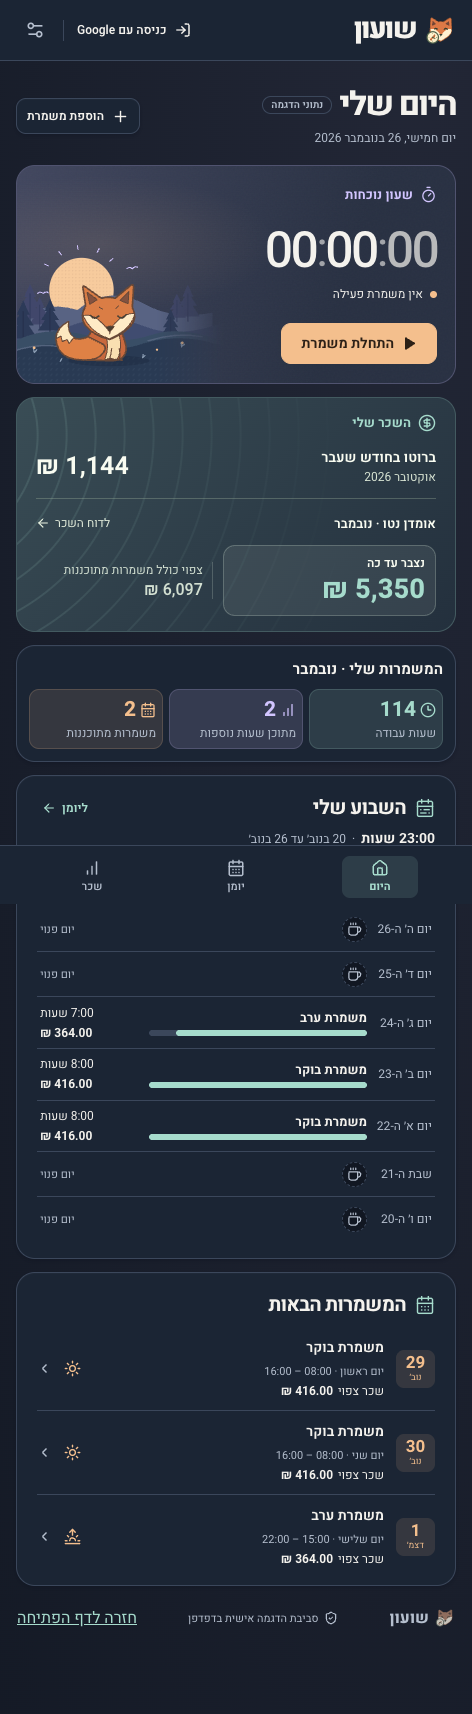
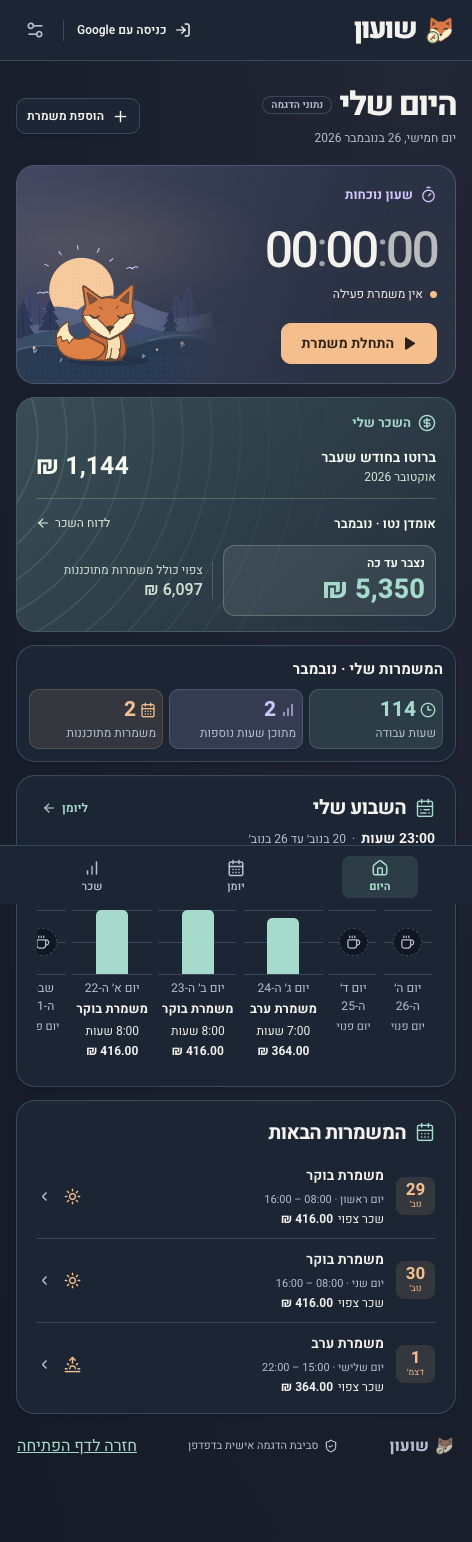
Revert mobile weekly graph layout

diff --git a/src/style.css b/src/style.css
@@ -905,7 +905,6 @@ button:not(:disabled):active {
   background: repeating-linear-gradient(to bottom, var(--line) 0 1px, transparent 1px 50%);
 }
 .week-shift-bar {
-  height: var(--week-bar-size);
   width: min(55%, 2rem);
   background: var(--week-shift-tone);
   border-radius: 0.35rem 0.35rem 0 0;
@@ -927,73 +926,6 @@ button:not(:disabled):active {
 }
 .week-shift-totals .shift-gross {
   justify-content: center;
-}
-@media (max-width: 740px) {
-  .week-shifts {
-    display: grid;
-    overflow: visible;
-    padding: 0;
-  }
-  .week-shifts li + li {
-    border-top: 1px solid var(--line);
-  }
-  .week-shift {
-    grid-template-columns: 3.5rem minmax(0, 1fr) 6.25rem;
-    grid-template-rows: auto auto;
-    align-content: center;
-    align-items: center;
-    justify-items: stretch;
-    gap: 0.2rem 0.55rem;
-    min-height: 44px;
-    padding: 0.4rem 0.2rem;
-    text-align: start;
-  }
-  .week-shift-date {
-    grid-area: 1 / 1 / span 2 / 2;
-  }
-  .week-shift-name {
-    grid-area: 1 / 2;
-    align-self: end;
-  }
-  .week-shift-plot {
-    grid-area: 2 / 2;
-    align-self: start;
-    justify-content: start;
-    align-items: stretch;
-    height: 6px;
-    border: 0;
-    border-radius: 999px;
-    background: var(--line);
-  }
-  .week-shift-bar {
-    width: var(--week-bar-size);
-    height: 100%;
-    border-radius: inherit;
-  }
-  .week-shift-missing {
-    display: none;
-  }
-  .week-shift-totals {
-    grid-area: 1 / 3 / span 2 / 4;
-    justify-items: end;
-  }
-  .week-shift-totals .shift-gross {
-    justify-content: end;
-  }
-  .week-day-off .week-shift-plot {
-    grid-area: 1 / 2 / span 2 / 3;
-    align-self: center;
-    height: auto;
-    background: none;
-  }
-  .week-off-icon {
-    width: 1.55rem;
-    height: 1.55rem;
-  }
-  .week-off-label {
-    grid-area: 1 / 3 / span 2 / 4;
-    justify-self: end;
-  }
 }
 .upcoming .panel-heading {
   margin-bottom: 8px;

diff --git a/src/components/Dashboard.tsx b/src/components/Dashboard.tsx
@@ -1,4 +1,4 @@
-import { useEffect, useMemo, useState, type CSSProperties } from 'react'
+import { useEffect, useMemo, useState } from 'react'
 import {
   ArrowLeft,
   CalendarDays,
@@ -204,7 +204,7 @@ function Weekly({ today, shifts, shiftPayById, onCalendar, onShift }: Pick<Props
                   <span className="week-shift-plot" aria-hidden="true">
                     {value === undefined
                       ? <span className="week-shift-missing">—</span>
-                      : <span className="week-shift-bar" style={{ '--week-bar-size': value / ceiling * 100 + '%' } as CSSProperties} />}
+                      : <span className="week-shift-bar" style={{ height: value / ceiling * 100 + '%' }} />}
                   </span>
                   <span className="week-shift-date">{label}</span>
                   <strong className="week-shift-name">{shift.title || 'משמרת עבודה'}</strong>

diff --git a/README.md b/README.md
@@ -16,7 +16,7 @@
 
 | מסך | מה עושים בו |
 | --- | --- |
-| **היום שלי** | מתחילים ומסיימים משמרת, רושמים הפסקות ורואים בגרף השבועי את שעות העבודה והשכר לכל משמרת בשבעת הימים האחרונים. ימים בלי משמרות מסומנים כימים פנויים. אפשר להחליף את מדד הגרף בין שעות לשכר. בנייד כל הימים מוצגים בפסים אופקיים ללא גלילה לצדדים. לכל משמרת מתוכננת מוצג השכר הצפוי. לצד השעון מופיעים הברוטו של החודש הקודם, אומדן הנטו שנצבר החודש, שמוצג בהבלטה, והתחזית לסופו. |
+| **היום שלי** | מתחילים ומסיימים משמרת, רושמים הפסקות ורואים בגרף השבועי את שעות העבודה והשכר לכל משמרת בשבעת הימים האחרונים. ימים בלי משמרות מסומנים כימים פנויים. אפשר להחליף את מדד העמודות בין שעות לשכר. לכל משמרת מתוכננת מוצג השכר הצפוי. לצד השעון מופיעים הברוטו של החודש הקודם, אומדן הנטו שנצבר החודש, שמוצג בהבלטה, והתחזית לסופו. |
 | **יומן המשמרות** | בודקים מה עבדתם ומה מתוכנן, מזינים שעות בדיעבד ומחילים אותן שעות על כמה ימים. בכל שורה מופיע השכר למשמרת כולה או השכר הצפוי למשמרת מתוכננת. משמרת שחוצה חצות מופיעה ביומן ביום שבו התחילה, עם כל שעות העבודה והשכר שלה. בטופס המשמרת מוצגות כברירת מחדל שעות ידניות. אפשר לעבור לבחירה מתבנית ולהוסיף הערה ישירות. בעריכת משמרת קיימת אפשר למחוק אותה אחרי אישור מפורש. |
 | **השכר שלי** | בוחרים חודש ומשווים בין מה שנצבר בפועל לבין התחזית הכוללת משמרות מתוכננות. הדוח מפרט ברוטו, נטו משוער, ניכויים ושעות נוספות. אפשר להזין נתוני תלוש לחודש שנבחר, כולל חודשים קודמים. |
 | **הגדרות** | מעדכנים את שאלון השכר, נקודות זיכוי, הגדרות פנסיה, תעריפים לפי תאריך, ימי מנוחה וחגים ותבניות משמרת. לחיצה על תבנית פותחת עריכה של השם ושעות המשמרת בחלון קצר. אפשר לבחור מראה בהיר, כהה, מרווה או התאמה למכשיר. |
